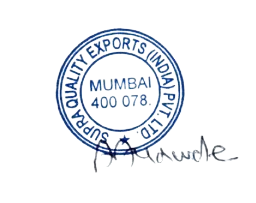
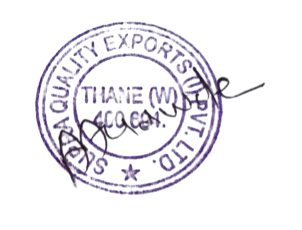
code for added new changfe

Changed region(s): [[0.0938, 0.0887, 0.9375, 0.8571], [0.8438, 0.3547, 0.875, 0.3842]]

diff --git a/application/controllers/Admin.php b/application/controllers/Admin.php
@@ -16441,7 +16441,7 @@ public function downlaoddebitnote($id){
                             <p>Thanking You,</p>
                             <p>Yours truly</p>
                             <p style="vertical-align: text-top;font-size:12px;color:#206a9b"><b>FOR SUPRA QUALITY EXPORTS (I) PVT. LTD.</b></p>
-                            <br/><img src="'.base_url().'assets/images/stmps/rr_challan.png" width="130" height="100">
+                            <br/><img src="'.base_url().'assets/images/stmps/supplierpostampsignature.png" width="130" height="100">
                             <p style="vertical-align: text-top;font-size:10px;color:#206a9b"><b>AUTHORIZED SIGNATORY</b></p>
                         </td>
                         <td style="text-align: center;" width="25%" valign="top">
@@ -16737,7 +16737,7 @@ public function downlaoddebitnotevendor($id){
                             <p>Thanking You,</p>
                             <p>Yours truly</p>
                             <p style="vertical-align: text-top;font-size:12px;color:#206a9b"><b>FOR SUPRA QUALITY EXPORTS (I) PVT. LTD.</b></p>
-                            <br/><img src="'.base_url().'assets/images/stmps/rr_challan.png" width="130" height="100">
+                            <br/><img src="'.base_url().'assets/images/stmps/supplierpostampsignature.png" width="130" height="100">
                             <p style="vertical-align: text-top;font-size:10px;color:#206a9b"><b>AUTHORIZED SIGNATORY</b></p>
                         </td>
                         <td style="text-align: center;" width="25%" valign="top">
